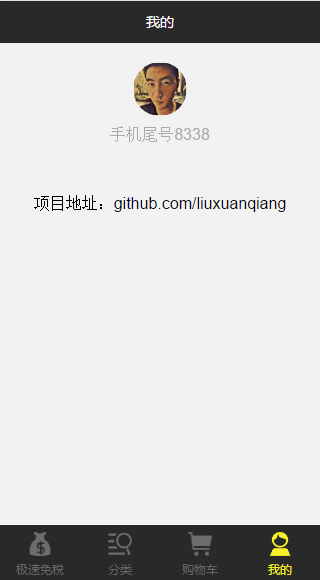
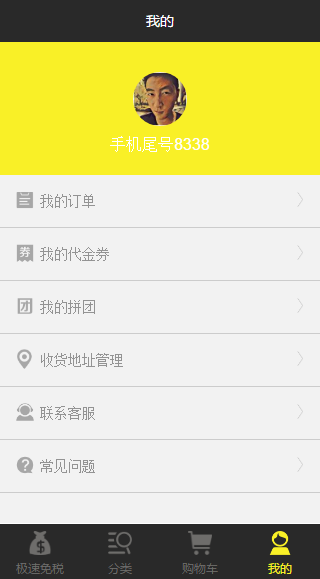
更新了“我的”页面

diff --git a/pages/index/index.js b/pages/index/index.js
@@ -1,40 +1,18 @@
 //获取应用实例
 var app = getApp()
-<<<<<<< HEAD
 Page({
     data: {
         indicatorDots: true,
         vertical: false,
         autoplay: true,
         interval: 3000,
-        duration: 1200,
+        duration: 1000,
     },
 
     //事件处理函数
-    bindViewTap: function() {
-        wx.navigateTo({
-            url: '../logs/logs'
-        })
-    },
     swiperchange: function(e) {
-        //FIXME: 当前页码
         //console.log(e.detail.current)
     },
-=======
-Page( {
-  data: {
-    indicatorDots: true,
-    vertical: false,
-    autoplay: true,
-    interval: 3000,
-    duration: 1000,
-  },
-
-  //事件处理函数
-  swiperchange: function(e) {
-    //console.log(e.detail.current)
-  },
->>>>>>> origin/master
 
     onLoad: function() {
         console.log('onLoad')

diff --git a/README.md b/README.md
@@ -11,8 +11,7 @@
 - utils — 存放utils文件，可require引入
 
 ### 项目截图:
-<<<<<<< HEAD
-<div>
+
     <img src="https://github.com/liuxuanqiang/wechat-weapp-mall/blob/master/images/screenshots/screenshorts-01.png" width="320px" style="display:inline;">
     
     <img src="https://github.com/liuxuanqiang/wechat-weapp-mall/blob/master/images/screenshots/screenshorts-05.png" width="320px" style="display:inline;">
@@ -22,23 +21,10 @@
     <img src="https://github.com/liuxuanqiang/wechat-weapp-mall/blob/master/images/screenshots/screenshorts-03.png" width="320px" style="display:inline;">
 
     <img src="https://github.com/liuxuanqiang/wechat-weapp-mall/blob/master/images/screenshots/screenshorts-04.png" width="320px" style="display:inline;">
-</div>
-=======
-<img src="https://github.com/liuxuanqiang/wechat-weapp-mall/blob/master/images/screenshots/screenshorts-01.png" width="320px">
-
-<img src="https://github.com/liuxuanqiang/wechat-weapp-mall/blob/master/images/screenshots/screenshorts-02.png" width="320px">
-
-<img src="https://github.com/liuxuanqiang/wechat-weapp-mall/blob/master/images/screenshots/screenshorts-03.png" width="320px">
-
-<img src="https://github.com/liuxuanqiang/wechat-weapp-mall/blob/master/images/screenshots/screenshorts-04.png" width="320px">
->>>>>>> origin/master
 
 ### 开发环境：
 微信web开发者工具 v0.9.092300
 
 ### 项目地址：
-<<<<<<< HEAD
-* [https://github.com/liuxuanqiang/wechat-weapp-mall](https://github.com/liuxuanqiang/wechat-weapp-mall) 
-=======
 https://github.com/liuxuanqiang/wechat-weapp-mall
->>>>>>> origin/master
+
